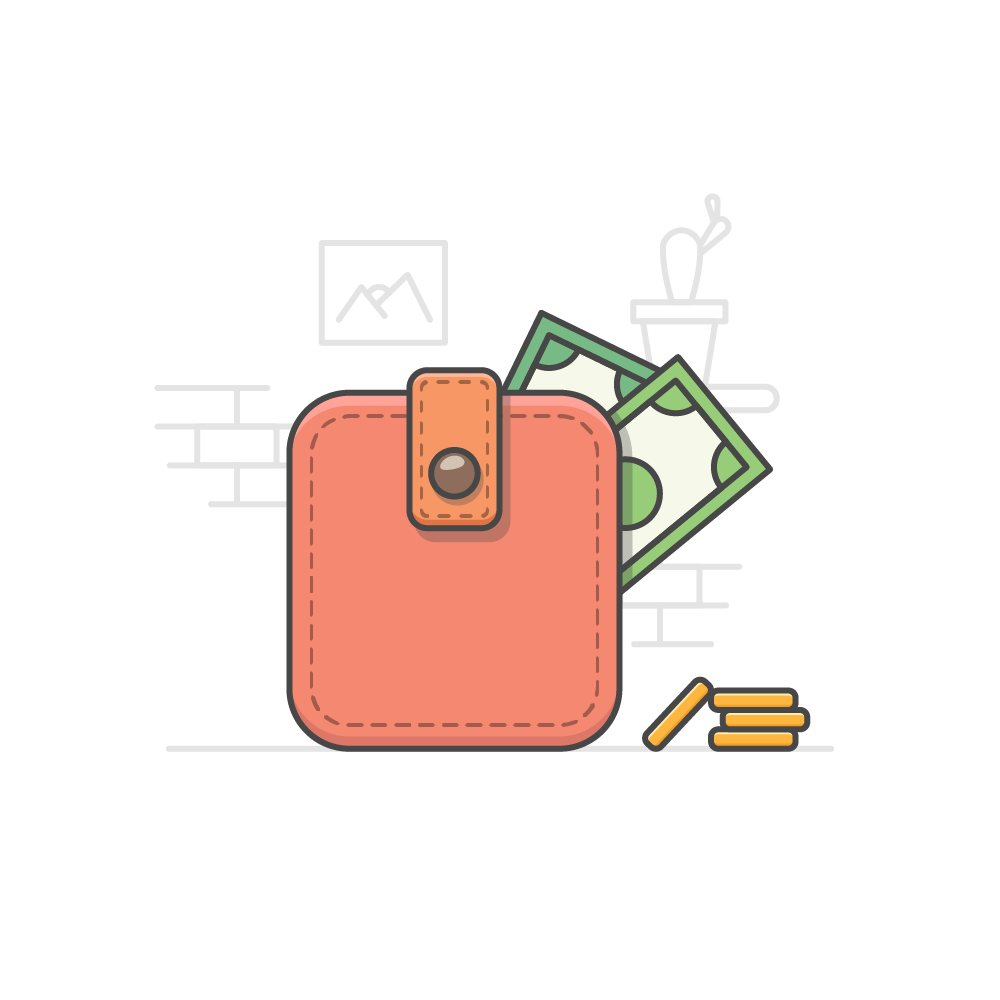
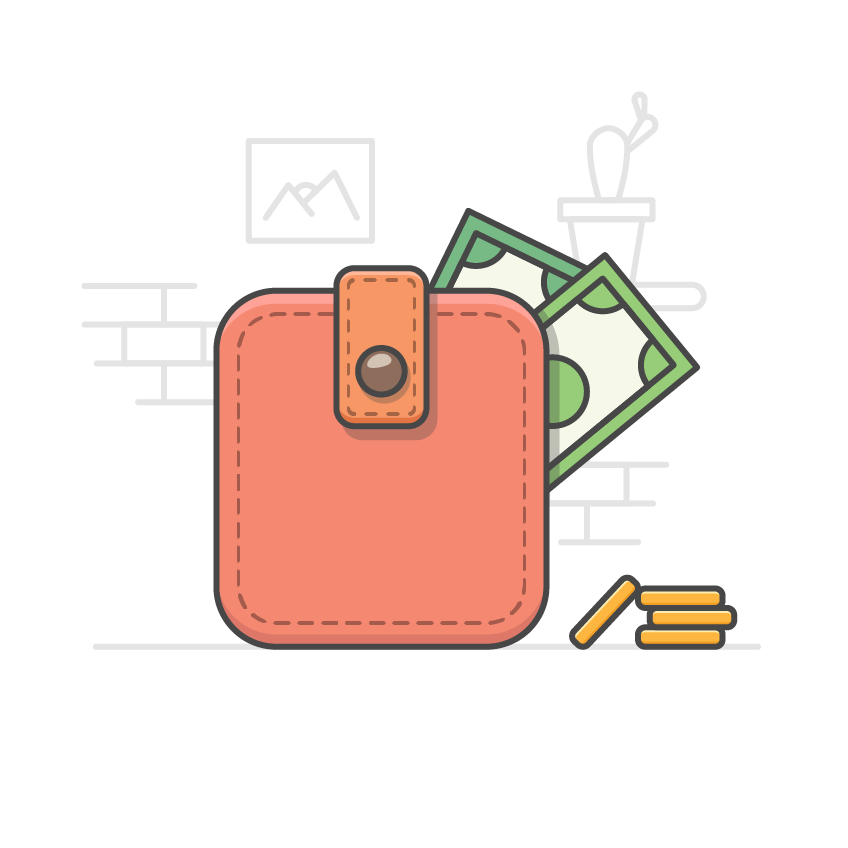
Pequenas alterações layout.

Changed region(s): [[0.092, 0.092, 0.8892, 0.7665]]

diff --git a/index.html b/index.html
@@ -14,12 +14,15 @@
 <body>
   <div class="top-container">
     <img class="top-cloud" src="img/cloud.png" alt="Imagem de Nuvem."/>
-    <h1>Bem vindo(a) ao meu <br />Repositório de Projetos Web!</h1>
+    <h1>
+      Bem vindo(a) ao meu <br />Repositório de Projetos Web!
+    </h1>
     <h2>
       Projetos aprendidos através do
       <a href="https://www.udemy.com/course/the-complete-web-development-bootcamp/">curso</a>
       da Dra. Angela Yu.
     </h2>
+    <img class="middle-cloud" src="img/cloud.png" alt="Imagem de Nuvem."/>
     <img class="bottom-cloud" src="img/cloud.png" alt="Imagem de Nuvem."/>
     <img src="img/mountain.png" alt="Imagem de Montanha."/>
     <div class="p-styled">
@@ -53,8 +56,8 @@
   <!-- <hr size='3'/>  -->
   <div class="middle-container-2">
     <h3>Biografia</h3>
-    <div class="biography">
-        <img class="biography-img" src="img/study.jpg" alt="Estudante."/>
+    <div class="biography-left">
+        <img class="biography-img" src="img/study.png" alt="Estudante."/>
         <div class="paragraph-container">
           <p>
             Meu primeiro contato com programação foi na faculdade. Começou com um
@@ -63,8 +66,7 @@
           </p>
         </div>
     </div>
-    <div class="biography">
-        <img class="biography-img" src="img/work.jpg" alt="Trabalhando."/>
+    <div class="biography-right">
         <div class="paragraph-container">
           <p>
             Descobri o fascinante mundo dos 0 e 1, e lembro até hoje quando
@@ -73,8 +75,9 @@
              JavaScript e fiz varios programinhas simples e bem didáticos.
           </p>
         </div>
+        <img class="biography-img" src="img/work.png" alt="Trabalhando."/>
     </div>
-    <div class="biography">
+    <div class="biography-left">
        <img class="biography-img" src="img/money.png" alt="Carteira com dinheiro."/>
        <div class="paragraph-container">
           <p>
@@ -85,8 +88,7 @@
           </p>
        </div>
     </div>
-    <div class="biography">
-       <img class="biography-img" src="img/programing.png" alt="Programaçao."/>
+    <div class="biography-right">
        <div class="paragraph-container">
           <p>
             Agora que estou formada tenho um pouco mais de tempo para rever a
@@ -94,9 +96,10 @@
             que mais me chamou atenção na faculdade.
           </p>
        </div>
+       <img class="biography-img" src="img/programing.png" alt="Programaçao."/>
     </div>
-    <div class="biography">
-       <img class="biography-img" src="img/me.jpg" alt="Pessoa confiante."/>
+    <div class="biography-left">
+       <img class="biography-img" src="img/me.png" alt="Pessoa confiante."/>
        <div class="paragraph-container">
           <p>
             E sou bem perfeccionista e organizada, e tenho uma veia criativa,
@@ -106,16 +109,15 @@
           </p>
        </div>
     </div>
-    <div class="biography">
-       <img class="biography-img" src="img/web.jpg" alt="Pagina web."/>
+    <div class="biography-right">
        <div class="paragraph-container">
           <p>
             Meu maior objetivo agora é aperfeiçoar a técnica e colocar em prática
              o que aprender, para desenvolver páginas responsivas, inclusivas,
               otimizadas, interativas e cativantes!
-
           </p>
        </div>
+       <img class="biography-img" src="img/web.png" alt="Pagina web."/>
     </div>
   </div>
 

diff --git a/css/web-dev-index-styles.css b/css/web-dev-index-styles.css
@@ -1,10 +1,11 @@
 /**COLLOR PALLET
-Lime-Green #76B947
-Kelly-Green #B1D8B7
-Seafoam-Green #2F5233
-Spearmint #94C973
-Palegoldenrod #eee8aa;
-Orange-yellow #fc8803
+Seafoam-Green   #2F5233
+Lime-Green      #76B947
+Spearmint       #94C973
+Kelly-Green     #B1D8B7
+Grey-normal     #7d7d7d
+Palegoldenrod   #eee8aa
+Orange-yellow   #fc8803
 **/
 /***WEB DEV BOOTCAMP CSS STYLES****/
 body {
@@ -24,7 +25,7 @@ h1 {
 h2 {
   font-family: 'Italianno', cursive;
   font-size: 2em;
-  color: grey;
+  color: #7d7d7d;
 }
 
 h3 {
@@ -38,6 +39,7 @@ h3 {
 p {
   color: #eee8aa;
   padding-top: 20px;
+  line-height: 2;
 }
 
 a {
@@ -50,7 +52,7 @@ a:hover {
 
 /*hr {
   border-style: none;
-  background-color: grey;
+  background-color: #7d7d7d;
   width: 80%;
 }*/
 
@@ -63,19 +65,32 @@ a:hover {
 }
 
 .top-cloud {
+  height: 100px;
   position: absolute;
-  right: 200px;
-  top: 50px;
+  right: 375px;
+  top: 25px;
+}
+
+.middle-cloud {
+  height: 150px;
+  position: absolute;
+  right: 250px;
+  top: 250px;
 }
 
 .bottom-cloud {
+  height: 100px;
   position: absolute;
   left: 300px;
   bottom: 300px;
 }
 
+.top-container h1 {
+  padding-top: 100px;
+}
+
 .p-styled p {
-  color: grey;
+  color: #7d7d7d;
   justify-content: right;
   padding: 0;
 }
@@ -83,7 +98,7 @@ a:hover {
 /*middle-1*/
 .middle-container-1 {
   background-color: #94C973;
-  padding: 50px;
+  padding: 100px;
 }
 
 .middle-container-1-img {
@@ -99,38 +114,43 @@ a:hover {
 
 /*middle-2*/
 .middle-container-2 {
-  padding: 50px;
+  padding: 100px;
   background-color: #eee8aa;
 }
 
 .middle-container-2 p {
   padding: 0;
   margin: 0;
-  text-align: justify;
+  text-align: left;
 }
 
 .paragraph-container {
-  padding: 50px;
+  padding: 30px;
 
 }
 .paragraph-container  p {
   color: #76B947;
 }
 
-.biography {
-  padding: 1.5% 20% 1.5% 20%;
+.biography-left {
+  padding: 0 20% 0 20%;
+  display: inline-flex;
+}
+
+.biography-right {
+  padding: 0 20% 0 20%;
   display: inline-flex;
 }
 
 .biography-img {
-  width: 200px;
-  height: 200px;
+  width: 150px;
+  height: 150px;
 }
 
 /*bottom*/
 .bottom-container {
   font-size: 20px;
-  padding: 70px;
+  padding: 100px;
 }
 
 .footer-icons-div {
